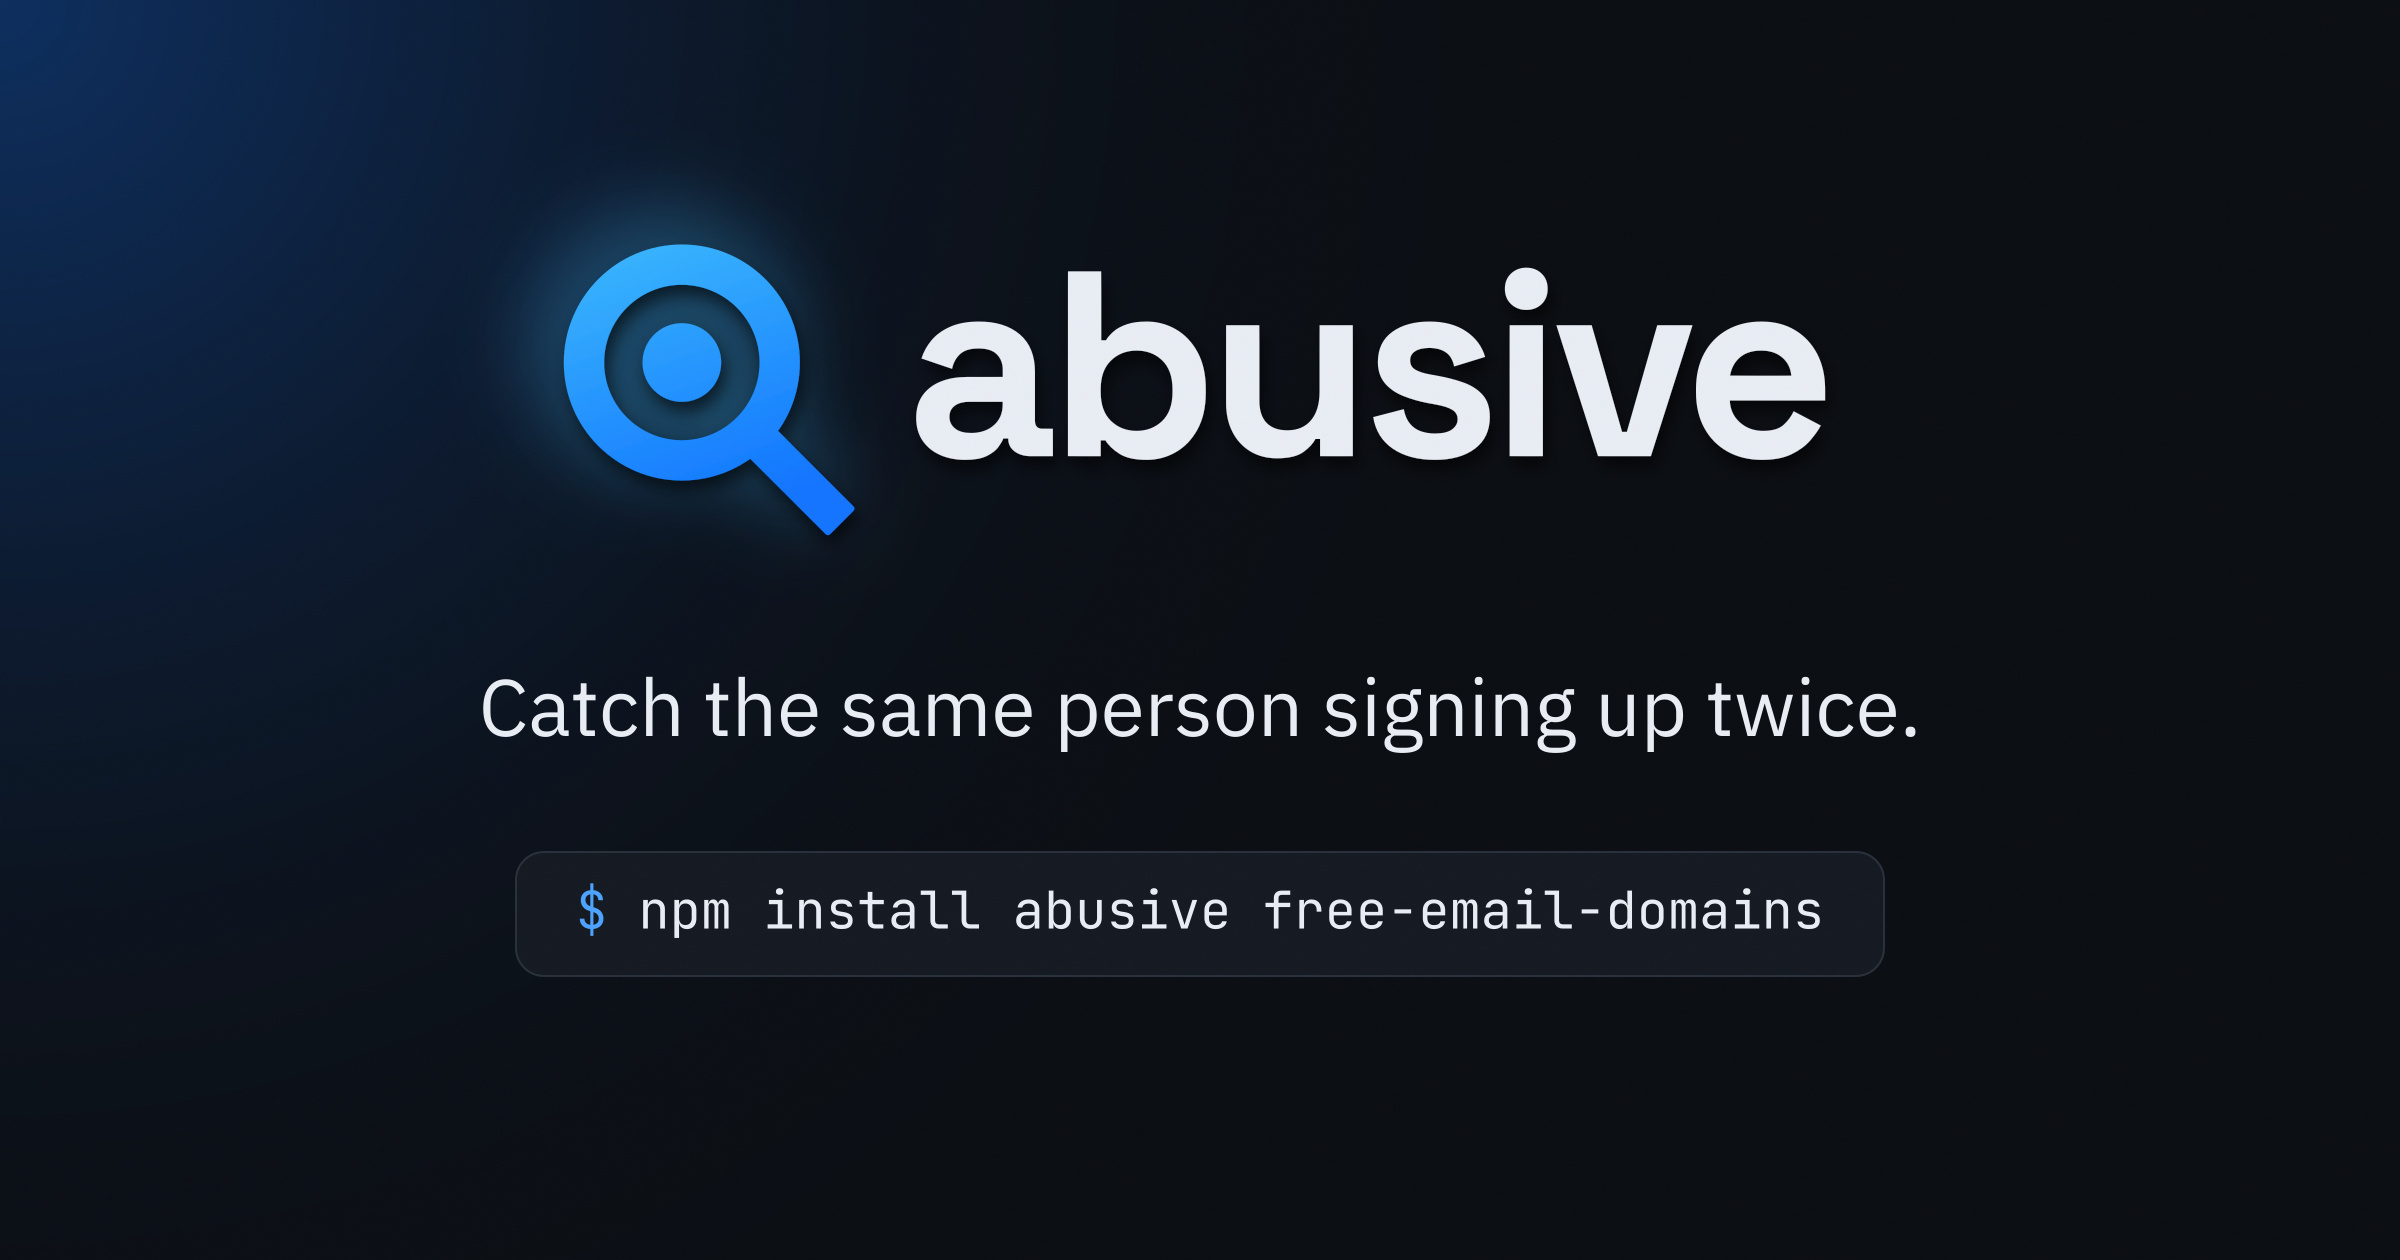
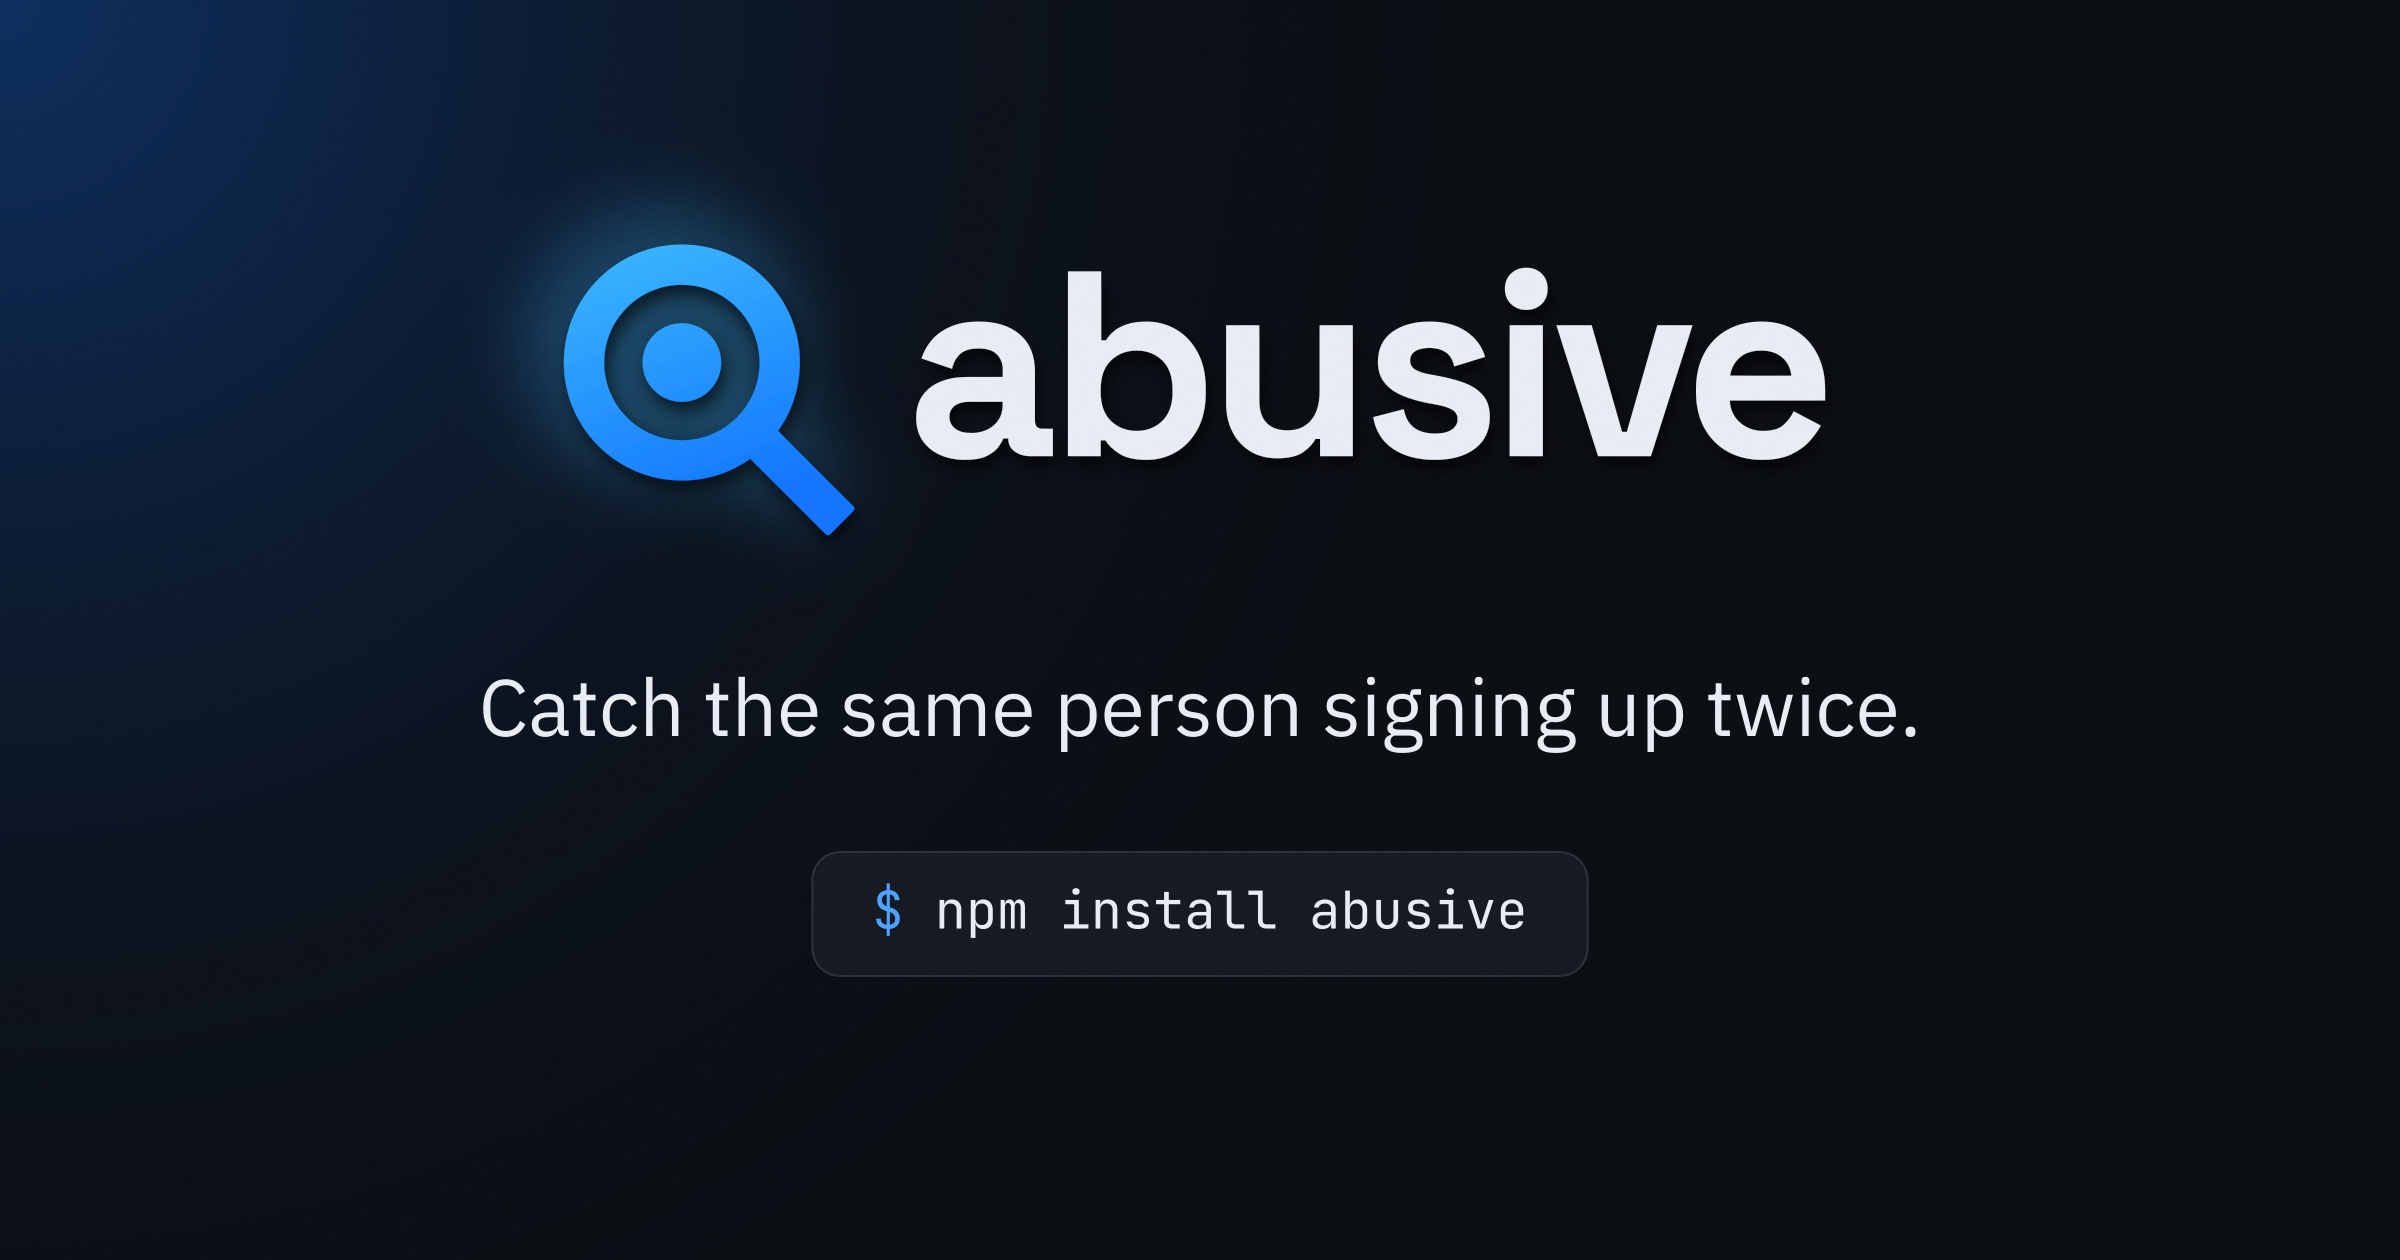
docs: suggest only npm install abusive on the cover and social card (#15)
The cover command, the og:image banner and twitter:data1 now show
`npm install abusive`. The .cover__word nowrap rule had no user left,
so it goes, and the test now requires it only when the command has a
hyphenated word.

Changed region(s): [[0.2188, 0.7119, 0.7812, 0.7429]]

diff --git a/index.html b/index.html
@@ -17,7 +17,7 @@
 
   <meta property="og:title" content="abusive: refuse repeat signups to your free plan, for Node.js" />
   <meta property="og:description" content="Catch the same person signing up twice." />
-  <meta property="og:image" content="https://abusive.js.org/static/banner.jpg?v=90281261" />
+  <meta property="og:image" content="https://abusive.js.org/static/banner.jpg?v=0db7db0d" />
   <meta property="og:image:width" content="2400" />
   <meta property="og:image:height" content="1260" />
   <meta property="og:image:alt" content="abusive logo, a magnifying glass, with the tagline: Catch the same person signing up twice." />
@@ -31,10 +31,10 @@
   <meta name="twitter:creator" content="@Kikobeats" />
   <meta name="twitter:title" content="abusive: refuse repeat signups to your free plan, for Node.js" />
   <meta name="twitter:description" content="Catch the same person signing up twice." />
-  <meta name="twitter:image" content="https://abusive.js.org/static/banner.jpg?v=90281261" />
+  <meta name="twitter:image" content="https://abusive.js.org/static/banner.jpg?v=0db7db0d" />
   <meta name="twitter:image:alt" content="abusive logo, a magnifying glass, with the tagline: Catch the same person signing up twice." />
   <meta name="twitter:label1" content="Installation" />
-  <meta name="twitter:data1" content="npm install abusive free-email-domains" />
+  <meta name="twitter:data1" content="npm install abusive" />
 
   <script type="application/ld+json">
   {

diff --git a/test/cover.js b/test/cover.js
@@ -582,13 +582,15 @@ test('the install command breaks only between words', t => {
   const command = read('_coverpage.md').match(
     /<code data-command>(.*?)<\/code>/
   )[1]
-  for (const word of command.replace(/<[^>]+>/g, '').split(' ')) {
-    if (word.includes('-')) {
-      t.true(command.includes(`<span class="cover__word">${word}</span>`), word)
-    }
+  const hyphenated = command
+    .replace(/<[^>]+>/g, '')
+    .split(' ')
+    .filter(word => word.includes('-'))
+  for (const word of hyphenated) {
+    t.true(command.includes(`<span class="cover__word">${word}</span>`), word)
   }
-  t.regex(
-    read('docs/cover/cover.css'),
-    /\.cover__word \{ white-space: nowrap; \}/
-  )
+  const nowrapRule = /\.cover__word \{ white-space: nowrap; \}/
+  const css = read('docs/cover/cover.css')
+  if (hyphenated.length) t.regex(css, nowrapRule)
+  else t.notRegex(css, nowrapRule)
 })

diff --git a/test/cover-main.js b/test/cover-main.js
@@ -339,7 +339,7 @@ test.serial(
   async t => {
     const page = await openCover({ fallback: 'no-webgpu' })
     await click(page, '[data-copy]')
-    t.deepEqual(page.copied, ['npm install abusive free-email-domains'])
+    t.deepEqual(page.copied, ['npm install abusive'])
     page.close()
   }
 )
@@ -637,7 +637,7 @@ test.serial(
     const button = page.cover.querySelector('[data-copy]')
     t.is(status(page), '')
     await click(page, '[data-copy]')
-    t.deepEqual(page.copied, ['npm install abusive free-email-domains'])
+    t.deepEqual(page.copied, ['npm install abusive'])
     t.is(button.dataset.copied, 'true')
     t.is(status(page), 'Copied to clipboard')
     t.deepEqual(page.pendingDelays(), [COPIED_MS, COPIED_MS, LIVE_TIMEOUT_MS])

diff --git a/docs/brand/banner.js b/docs/brand/banner.js
@@ -13,7 +13,7 @@ export const BANNER = {
   tagline: { text: 'Catch the same person signing up twice.', size: 40 },
   command: {
     prompt: '$ ',
-    text: 'npm install abusive free-email-domains',
+    text: 'npm install abusive',
     size: 26
   },
   markToXHeight: 2.3,

diff --git a/docs/cover/cover.css b/docs/cover/cover.css
@@ -157,8 +157,6 @@
   min-width: 0;
 }
 
-.cover__word { white-space: nowrap; }
-
 .cover__command code::before {
   content: "$ ";
   color: var(--cover-accent);

diff --git a/_coverpage.md b/_coverpage.md
@@ -20,7 +20,7 @@
         </div>
         <span class="visually-hidden" role="status" data-copy-status></span>
         <div class="cover__command">
-          <code data-command>npm install abusive <span class="cover__word">free-email-domains</span></code>
+          <code data-command>npm install abusive</code>
           <button type="button" class="cover__copy" data-copy aria-label="Copy command">
             <svg viewBox="0 0 24 24" width="16" height="16" aria-hidden="true"><rect x="8" y="8" width="12" height="12" rx="2.5"/><path d="M16 8V6.5A2.5 2.5 0 0 0 13.5 4h-7A2.5 2.5 0 0 0 4 6.5v7A2.5 2.5 0 0 0 6.5 16H8"/></svg>
           </button>
